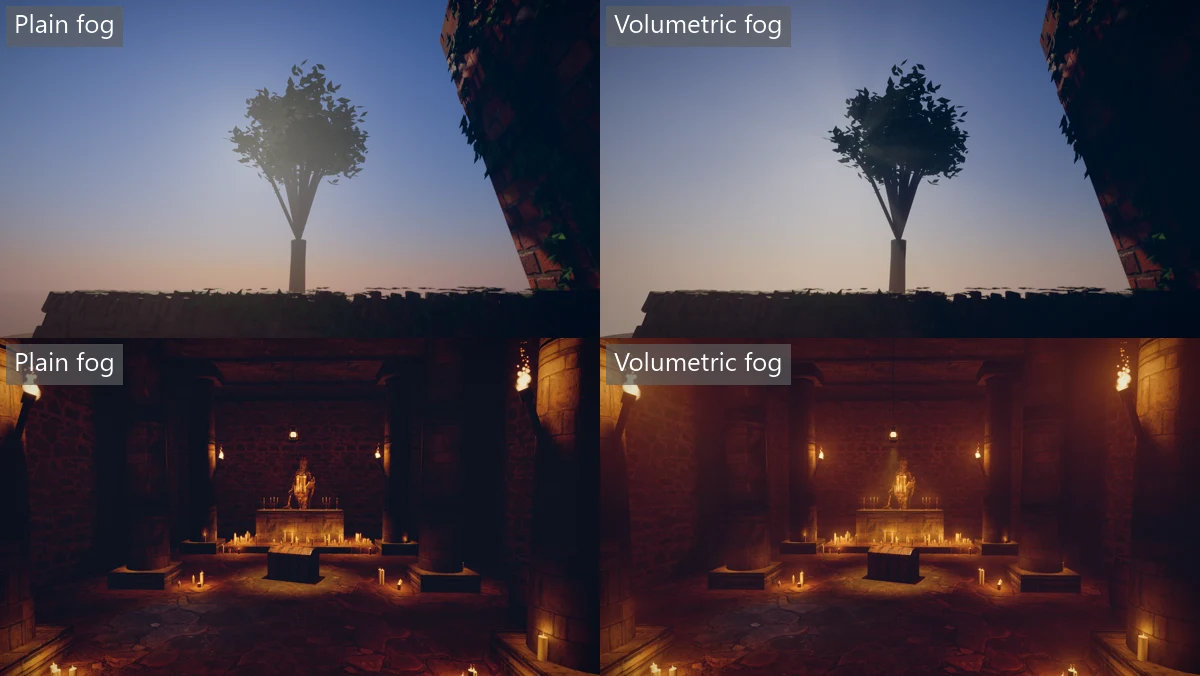
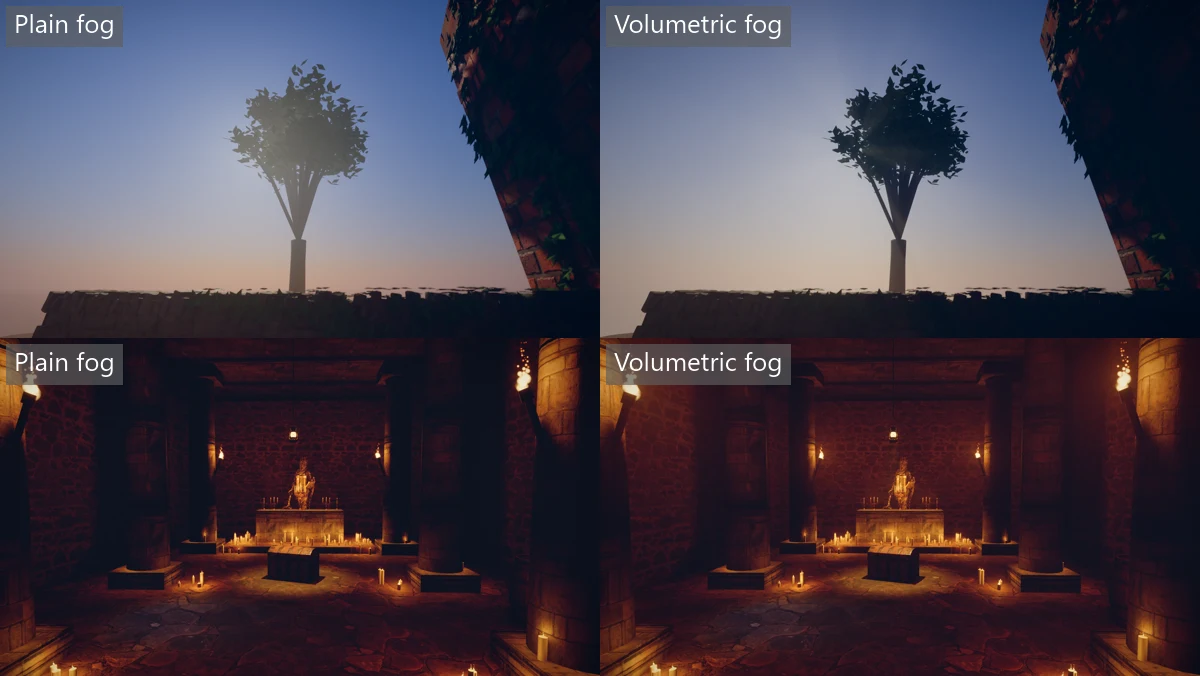
feat: faint fog in the Crypt so its torches glow, and free the volumetric fog when it's off
The Crypt gets a fog of 0.008 and its torches a volumetric strength of 2, so
they glow in the air without the room going hazy. Switching the fog or the
volumetric fog off frees its volumes, which are made again with no history.
The GPU timer reports the light clusters and the volumetric fog as passes of
their own, and names the subsurface pass, whose unnamed mark had shifted every
later label by one and written past the end of the query pool. The docs say
the first slice is one deep cell up to about a metre.

diff --git a/examples/Crypt/CryptGame.cs b/examples/Crypt/CryptGame.cs
@@ -205,6 +205,9 @@ public sealed class CryptGame(Content content) : IGame
             Horizon = new Vector3(0.02f, 0.02f, 0.03f),
             Ground = new Vector3(0.01f, 0.01f, 0.01f),
             Brightness = 0.05f,
+            // A faint, dusty air, just enough for the torches and the lantern to glow in it. Any
+            // thicker and the far end of the room goes hazy. There is no sun to scatter.
+            Fog = new FogSettings(Density: 0.008f, Height: 0f, Falloff: 0.15f, SunScatter: 0f),
         });
         view.Finish(new PostSettings
         {
@@ -279,8 +282,9 @@ public sealed class CryptGame(Content content) : IGame
                 var fire = bracket + Vector3.Transform(new Vector3(0f, 0.34f, 0f), lean);
                 float flicker = 1f + (0.1f * MathF.Sin(_seconds * 11f + i * 2f)) + (0.07f * MathF.Sin(_seconds * 23f + i));
                 // The flame is a hand from the stone, so a radius a little bigger than the fire keeps
-                // the pillar from blowing out white beside it.
-                view.PointLight(TorchKey + i, fire + new Vector3(0f, 0.12f, 0f), new Vector3(3.4f, 1.5f, 0.45f) * flicker, range: 9f, radius: 0.5f);
+                // the pillar from blowing out white beside it. Its halo is doubled, so it reads in
+                // the faint air without thickening the air for everything else.
+                view.PointLight(TorchKey + i, fire + new Vector3(0f, 0.12f, 0f), new Vector3(3.4f, 1.5f, 0.45f) * flicker, range: 9f, radius: 0.5f, volumetric: 2f);
                 DrawFire(view, FlameKey + (i * 1000), Torch, fire);
                 i++;
             }

diff --git a/src/Rendition/Vulkan/VolumetricFogVolume.cs b/src/Rendition/Vulkan/VolumetricFogVolume.cs
@@ -9,8 +9,8 @@ namespace Rendition.Vulkan;
 /// volumetric_integrate.comp sums each column into <see cref="Result"/>, which the lighting,
 /// glass and particle passes look up. All three volumes stay in the general layout. They are
 /// made the first time a frame draws the fog, at the scene's size, so a game without it spends
-/// no memory on them. Until then <see cref="Result"/> is a single texel that lets everything
-/// through. See "Volumetric fog" in docs/design.md.
+/// no memory on them, and freed by <see cref="Release"/> when the fog is switched off. Without
+/// them <see cref="Result"/> is a single texel that lets everything through. See "Volumetric fog" in docs/design.md.
 /// </summary>
 internal sealed unsafe class VolumetricFogVolume : IDisposable
 {
@@ -168,6 +168,17 @@ internal sealed unsafe class VolumetricFogVolume : IDisposable
 
     /// <summary>A frame that doesn't draw the fog leaves nothing for the next to reproject.</summary>
     public void Skip() => HistoryReady = false;
+
+    /// <summary>
+    /// Frees the volumes, so <see cref="Result"/> is the stand-in texel again until
+    /// <see cref="SetSize"/> makes them anew, with no history. Only while no frame in flight uses
+    /// them, and the frame sets must be pointed at <see cref="Result"/> again.
+    /// </summary>
+    public void Release()
+    {
+        DestroyTargets();
+        HistoryReady = false;
+    }
 
     /// <summary>
     /// Lights the cells and sums the columns. Must come after the sun's shadow maps, the light

diff --git a/src/Rendition/Renderer.cs b/src/Rendition/Renderer.cs
@@ -1216,6 +1216,15 @@ public sealed unsafe class Renderer : IDisposable
             _volumetricFog.SetSize((int)_gBuffer.Extent.Width, (int)_gBuffer.Extent.Height);
             WriteTargetDescriptors();
         }
+        else if (_volumetricFog.HasTargets && (_off & (RenderEffects.Fog | RenderEffects.VolumetricFog)) != 0)
+        {
+            // Switched off, the volumes are freed, and made again with no history if it's switched back on.
+            // Frames in flight still read them. Flipping the switch is rare.
+            _api.DeviceWaitIdle(_context.Device).Check();
+            _volumetricFog.Release();
+            WriteTargetDescriptors();
+        }
+
         _depthOfField = DepthOfFieldConstants.For(view.Post, _off, (int)_gBuffer.Extent.Width);
         bool antiAliased = !_off.HasFlag(RenderEffects.AntiAliasing);
         if (antiAliased != _readsAntiAliased)
@@ -1874,11 +1883,15 @@ public sealed unsafe class Renderer : IDisposable
             RecordClusters(cmd, frameSet);
         }
 
+        _gpuTimer.Mark(cmd);
+
         // The fog's air needs the shadow maps and the light lists, and the lighting pass needs the fog.
         if (_volumetricDrawn)
         {
             _volumetricFog.Record(cmd, frameSet);
         }
+
+        _gpuTimer.Mark(cmd);
 
         _api.Transition(cmd, targets.BaseColor.Image, ImageAspectFlags.ColorBit,
             ImageLayout.Undefined, ImageLayout.ColorAttachmentOptimal, SampledStage, SampledAccess, ColorStage, ColorWrite);

diff --git a/src/Rendition/Vulkan/GpuTimer.cs b/src/Rendition/Vulkan/GpuTimer.cs
@@ -13,7 +13,7 @@ internal sealed unsafe class GpuTimer : IDisposable
 
     private static readonly string[] PassNames =
     [
-        "Shadows", "G-buffer", "Ambient occlusion", "AO blur", "Lighting", "Glass and particles",
+        "Shadows", "Light clusters", "Volumetric fog", "G-buffer", "Ambient occlusion", "AO blur", "Lighting", "Subsurface", "Glass and particles",
         "Anti-aliasing", "Depth of field", "Bloom", "Tonemap", "Finish", "Overlay",
     ];
 

diff --git a/docs/rendering.md b/docs/rendering.md
@@ -54,7 +54,7 @@ next frame follows, so it can back an options menu.
 | `AntiAliasing` | Edges show their pixels, and moving things stay sharp |
 | `Bloom` | No glow round bright things. `PostSettings.Bloom` only changes how much there is |
 | `Fog` | Clear air, whatever `SkySettings.Fog` asks for. [Haze](#the-sky) stays, since it isn't fog. `SkySettings.Fog` only changes [how thick it is](#fog) |
-| `VolumetricFog` | The fog is the plain height fog all the way, exactly as if `FogSettings.VolumetricDistance` were 0: no shafts of sunlight and no halos round lamps. It saves two compute passes over a small grid and about 35 MB of memory at 1600 by 900. See [volumetric fog](#volumetric-fog) |
+| `VolumetricFog` | The fog is the plain height fog all the way, exactly as if `FogSettings.VolumetricDistance` were 0: no shafts of sunlight and no halos round lamps. It saves two compute passes over a small grid and about 35 MB of memory at 1600 by 900, which is freed when it is switched off and made again, without its history, when it is switched back on. See [volumetric fog](#volumetric-fog) |
 | `AutoExposure` | Views that ask for [auto exposure](#auto-exposure) keep the fixed `PostSettings.Exposure` instead, as if they hadn't asked. It saves a compute pass over the frame |
 | `DepthOfField` | Everything is sharp, even in views that open the lens with `PostSettings.Aperture`. It saves three passes, two of them at half size. See [focus](#focus) |
 | `Decals` | No [decals](views.md#decals): surfaces show as they are, without the grime and stains `view.Decal` lays on them. It saves a copy of the normal target and a pass over the decals' pixels |
@@ -564,13 +564,14 @@ Fog = new FogSettings(Density: 0.004f, Height: 0f, Falloff: 0.15f, SunScatter: 0
 },
 ```
 
-![Plain fog on the left, volumetric on the right: above, the Courtyard's tree against the sun, with the fog raised to 0.02; below, the Crypt's torches in a fog of 0.03 added for the picture](media/volumetric-fog.webp)
+![Plain fog on the left, volumetric on the right: above, the Courtyard's tree against the sun, with the fog raised to 0.02; below, the Crypt's torches in its own faint fog of 0.008](media/volumetric-fog.webp)
 
 Above, looking past the Courtyard's tree towards the sun: the plain fog washes the
 leaves with the sun's glow, while the volumetric fog leaves them dark and lets the light
-through between them in shafts. Below, a fog added to the Crypt for the picture: the
-torches and the lantern over the altar glow in the air, where the plain fog only
-darkens.
+through between them in shafts. Below, the Crypt's faint, dusty air, with a density of
+0.008: the torches glow in the air round them, where the plain fog only darkens. The
+torches pass `volumetric: 2f`, so their halos read without thicker air hazing the far
+end of the room.
 
 `VolumetricDistance` is how far from the camera, in metres, the fog is worked out this
 way, 48 by default. Past it the plain fog carries on, seen through the volumetric part,
@@ -588,7 +589,7 @@ stronger. A negative strength throws. A light's halo is cut by its own shadow wh
 casts one, so a lantern's beam shows as a cone.
 
 The fog near the camera is kept in a grid of cells, one for every 8 by 8 pixels of the
-scene and 64 deep, thin near the camera and deeper further out. Each frame lights
+scene and 64 deep: one cell for the first metre, then thin cells that get deeper further out. Each frame lights
 every cell at a different point of its depth and keeps 90% of what the cell held last
 frame, so a light that moves or switches on takes a few frames to settle in the fog.
 Screenshots and recordings that fix the frame come out the same every time. The grid

diff --git a/docs/design.md b/docs/design.md
@@ -1073,17 +1073,24 @@ Near the camera the height fog is worked out in a froxel grid instead of in clos
 (after render scale, rounded up) and 64 slices. Slice boundary i lies at view depth
 `n·(f/n)^(i/64)`, where f is `VolumetricDistance` and n, where the exponential split
 starts, is the smaller of 1 m and f/2. Cell 0 runs from the camera to boundary 1 and every
-other cell from its boundary to the next, so the slices are thin near the eye and deep far
-off. The frame uniforms carry `volumetric` (reach, n, anisotropy, and 1 when last frame's
+other cell from its boundary to the next. So the first cell is one deep block, 0 to about
+1.06 m at the default reach of 48, and past it the slices are thin and grow with distance:
+about 6 cm just past 1 m and about 2.8 m at 48 m. Fog within a metre of the eye is too thin
+to show any detail, and the first cell's light is faded in linearly from the camera (see
+`fogInFront()` below), so it is one cell rather than several. The frame uniforms carry `volumetric` (reach, n, anisotropy, and 1 when last frame's
 volume can be used), right after `curve`. `VolumetricFog.Pack` zeroes it, which makes every
 shader take the plain path untouched, with `RenderEffects.Fog` or `RenderEffects.VolumetricFog`
 off, a density or distance of 0, under water and while a probe is captured.
 
 Three rgba16f 3D images, about 35 MB at 1600×900, stay in the general layout for good. They
-are made the first time a frame draws the fog, at the scene's size, and remade with it;
-until then binding 8 of the frame set holds a 1×1×1 texel of (0, 0, 0, 1), which lets
-everything through. Two passes run after the shadow maps and the cluster lists, before
+are made the first time a frame draws the fog, at the scene's size, and remade with it.
+Turning `RenderEffects.Fog` or `RenderEffects.VolumetricFog` off frees them after a device
+wait, and turning it on again makes them anew with no history. Without them binding 8 of
+the frame set holds a 1×1×1 texel of (0, 0, 0, 1), which lets everything through. Two passes run after the shadow maps and the cluster lists, before
 the lighting pass, and the shadow maps' barriers list the compute stage among their readers.
+`GpuTimer` reports the two together as "Volumetric fog", and the light lists before them as
+"Light clusters". At 1600×900 they take about 0.16 ms in the Courtyard and 0.3 ms in the
+Crypt, whose many lights make the inject pass work harder.
 
 `volumetric_inject.comp` writes one of two injected volumes and samples the other as
 history. For each cell it finds the view ray through the cell's centre from

diff --git a/examples/Crypt/README.md b/examples/Crypt/README.md
@@ -3,6 +3,8 @@
 A stone hall lit only by fire and two beams. Four torches cast shadows, five brass
 candelabras stand on the altar, 126 loose candles sit on the floor, a lantern swings
 over a chest, and a cold beam falls from a grate. That's about 150 lights a frame.
+The air is faintly dusty, a [volumetric fog](../../docs/rendering.md#volumetric-fog) of
+0.008, so the torches glow in it.
 
 ```
 dotnet run -c Release --project examples/Crypt
